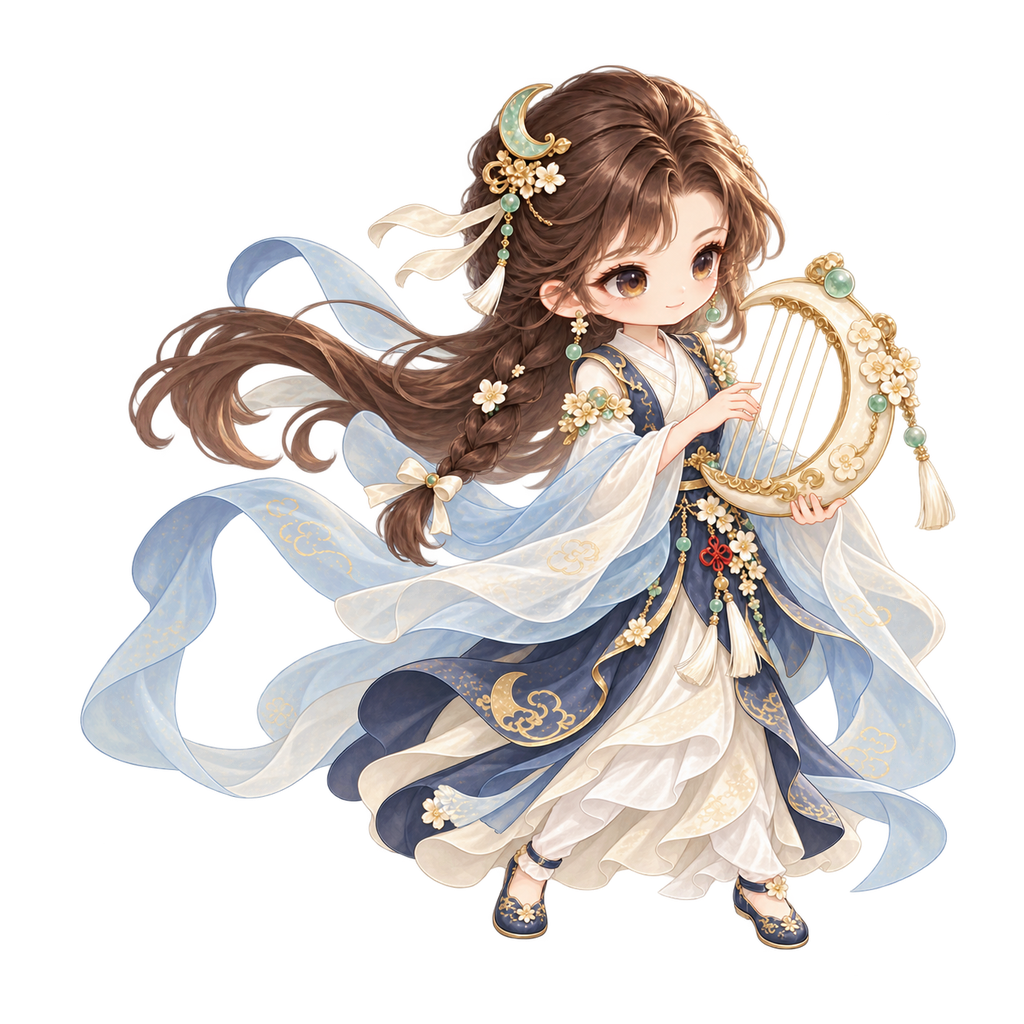
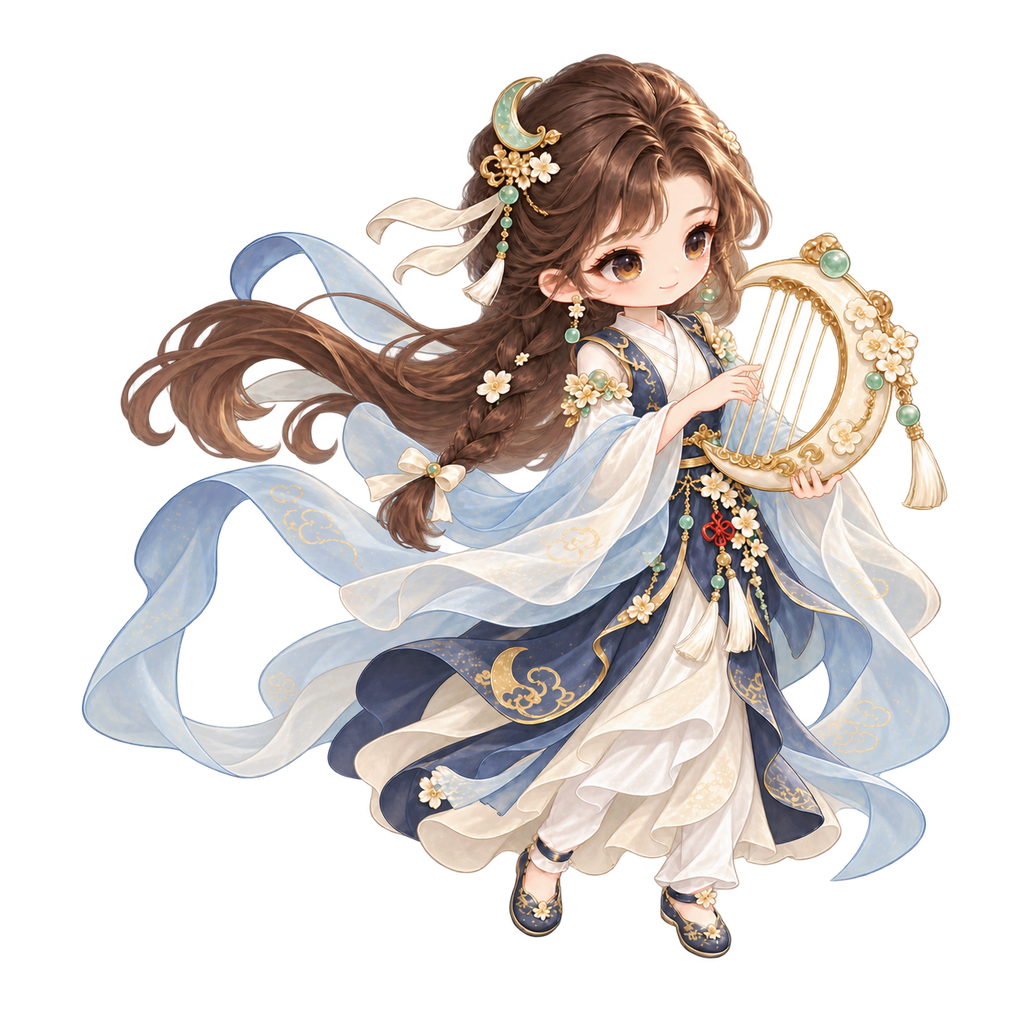
Save game artwork and production records 20261008 batch 0040

diff --git a/designs/creature-combat-20261005/pets/12-yuexianshi/review_guard_early.py b/designs/creature-combat-20261005/pets/12-yuexianshi/review_guard_early.py
@@ -1,0 +1,52 @@
+"""Read-only pixel checks and text review inventory for W attack01-06 repair."""
+from pathlib import Path
+from collections import deque
+from datetime import datetime, timezone
+import json, hashlib
+import numpy as np
+from PIL import Image
+ROOT=Path(__file__).resolve().parent
+def sha(p):return hashlib.sha256(p.read_bytes()).hexdigest()
+def load(p):return json.loads(p.read_text(encoding='utf-8-sig'))
+def save(p,d):p.write_text(json.dumps(d,ensure_ascii=False,indent=2),encoding='utf-8')
+def metrics(path):
+    im=Image.open(path); a=np.array(im); mask=(a[:,:,3]>150)&(a[:,:,:3].max(axis=2)<185)
+    mask[:1010]=False;mask[:,:510]=False;mask[:,780:]=False
+    components=[]
+    for y,x in zip(*np.where(mask)):
+        if not mask[y,x]:continue
+        q=deque([(int(y),int(x))]);mask[y,x]=False;pts=[]
+        while q:
+            yy,xx=q.popleft();pts.append((xx,yy))
+            for dy,dx in ((1,0),(-1,0),(0,1),(0,-1)):
+                ny,nx=yy+dy,xx+dx
+                if 0<=ny<a.shape[0] and 0<=nx<a.shape[1] and mask[ny,nx]:mask[ny,nx]=False;q.append((ny,nx))
+        if len(pts)>200:
+            z=np.array(pts); components.append({'area':len(pts),'center':[round(float(v),2) for v in z.mean(axis=0)],'bounds':[int(v) for v in [z[:,0].min(),z[:,1].min(),z[:,0].max()+1,z[:,1].max()+1]]})
+    components=sorted(sorted(components,key=lambda v:-v['area'])[:2],key=lambda v:v['center'][0])
+    edges={s:{'maxAlpha':int(v.max()),'pixelsAbove64':int((v>64).sum())} for s,v in zip(('top','bottom','left','right'),(a[0,:,3],a[-1,:,3],a[:,0,3],a[:,-1,3]))}
+    return {'size':list(im.size),'mode':im.mode,'alphaRange':list(im.getchannel('A').getextrema()),'strongEdgePixels':edges,'shoeDarkComponents':components}
+baseline=ROOT/'repair-inputs/baseline-W.png'
+review={'checkedAt':datetime.now(timezone.utc).isoformat(),'scope':'attack/W01-06','method':'Author actually viewed core E/W/style references, each edit target, every native result and every final exported PNG. Static sequential pose comparison plus read-only native alpha-edge and dark-shoe component measurements. No continuous playback or client approval claimed.','status':'static-reviewed-pending-root-sequence-verification','anatomy':'Each reviewed output remains true rear three-quarter W with visible back hair, two hands (anatomical left supports crescent harp; right plucks), two rear-facing staggered shoes, no wings/tail.','correction':'AI local lower-body edits remove original wide-foot stance while retaining frame-specific plucking poses. Frame03 required an additional real AI ribbon-edge correction. No code-created pose, mirror, interpolation or per-frame re-alignment used.','measurementLimitation':'Shoe centers are auxiliary dark connected-component centroids with y>=1010, 510<=x<780, maxRGB<185, alpha>150 in native1254 coordinates; not literal anatomical joints or foot-ground contacts. Small drawing deformation remains and requires sequence review.','baseline':{'path':str(baseline),'sha256':sha(baseline),'metrics':metrics(baseline)},'frames':[],'nativeSources':[]}
+for i in range(1,7):
+    rec=ROOT/'records/attack-W'/f'{i:02}.generation.json';r=load(rec)
+    if 'guardfix-20261008' not in r['prompt']:continue
+    native=Path(r['derivedFrom']['path']);out=ROOT/r['file']
+    review['frames'].append({'frame':i,'file':r['file'],'sha256':sha(out),'record':rec.relative_to(ROOT).as_posix(),'native':str(native),'nativeSha256':sha(native),'metrics':metrics(native),'exportMode':Image.open(out).mode,'exportSize':list(Image.open(out).size),'exportSHAAgrees':sha(out)==r['sha256'],'observed':'Native and final export viewed; narrowed rear shoes, left harp support and right plucking arm intact. Frame-to-frame plucking hand differences retained; exact playback pending.'})
+    for p in sorted((ROOT/'records/attack-W').glob(f'{i:02}.guardfix-20261008*.generation.json')):
+        c=load(p);selected=Path(c['file'])==native
+        c['disposition']='selected current final export' if selected else ('superseded by later AI ribbon-edge correction' if i==3 else 'superseded by later AI shoe-position precision correction')
+        if i==6 and not selected:c['disposition']='rejected: upper torso drift and diminished extended follow-through; retained initial corrected frame06'
+        c['currentRecord']=rec.relative_to(ROOT).as_posix();save(p,c)
+        review['nativeSources'].append({'path':c['file'],'sha256':c['sha256'],'record':p.relative_to(ROOT).as_posix(),'selected':selected,'eligibleForRootCleanupAfterFinalVerification':True})
+review['completed']=len(review['frames']);review['expected']=6
+review['distinctFinalSHA']=len({f['sha256'] for f in review['frames']})==len(review['frames'])
+review['noCodeCreatedPose']=True
+review['residualStaticVariation']='Frame04 lower shoe retains about18 native pixels (about14 export pixels) horizontal dark-body-center difference from baseline, with upper shoe near fixed and no swapped foot. Frame06 retains about14 native pixels lower-shoe x/y drawing variation. This is disclosed for root sequence review; not called zero-slip or dynamic approval.'
+review['exportContract']={'canvas':[1024,1024],'fixedWholeCanvasResize':[960,960],'fixedOffset':[32,16],'perFrameAlignment':False}
+observations={1:'Starting curled right fingers near central strings; narrowed guard shoe positions match baseline closely.',2:'Right wrist/fingers visibly lifted for preparation; supporting palm remains under the harp.',3:'Right fingers bend inward near strings; original ribbon-edge clipping repaired through a second AI edit.',4:'Right wrist reaches toward strings with bent fingers at release, retains support hand and full rear silhouette.',5:'Right wrist lowers into the stroke; rear feet show small natural drawing variation without wide lateral stance.',6:'Extended right fingers and wrist show follow-through; left hand continues to support the same harp.'}
+for f in review['frames']:f['poseObservation']=observations[f['frame']]
+review['nativeEdgeCheckPassed']=all(not e['pixelsAbove64'] for f in review['frames'] for e in f['metrics']['strongEdgePixels'].values())
+save(ROOT/'records/attack-W/guardfix-early-review-20261008.json',review)
+save(ROOT/'records/attack-W/guardfix-early-native-inventory-20261008.json',{'scope':'attack/W01-06 own generated sources only','deleteOnlyAfterFinalVerification':True,'items':review['nativeSources']})
+print(json.dumps({'completed':review['completed'],'expected':6,'nativeEdgeCheckPassed':review['nativeEdgeCheckPassed'],'feet':[{'frame':f['frame'],'components':f['metrics']['shoeDarkComponents']} for f in review['frames']],'baseline':review['baseline']['metrics']['shoeDarkComponents']},ensure_ascii=False))

diff --git a/designs/creature-combat-20261005/pets/12-yuexianshi/review_guard_late.py b/designs/creature-combat-20261005/pets/12-yuexianshi/review_guard_late.py
@@ -1,0 +1,34 @@
+from pathlib import Path
+import json,hashlib
+from datetime import datetime,timezone
+from PIL import Image,ImageDraw
+import numpy as np
+R=Path(__file__).resolve().parent
+rows=[];sources=[]
+for i in range(7,13):
+ rp=R/f"records/attack-W/{i:02}.generation.json"
+ r=json.loads(rp.read_text(encoding="utf-8"));p=Path(r["derivedFrom"]["path"])
+ if "guardfix-20261008" not in r["prompt"]:continue
+ with Image.open(p) as im:
+  a=np.array(im.getchannel("A"))
+  mx=[int(a[0].max()),int(a[-1].max()),int(a[:,0].max()),int(a[:,-1].max())]
+  rows.append(dict(file=r["file"],sha256=r["sha256"],source=str(p),nativeSha256=r["native"]["sha256"],prompt=r["prompt"],nativeSize=list(im.size),nativeEdgeOrder=["top","bottom","left","right"],nativeEdgeMax=mx,edgeAbove64=max(mx)>64))
+for p in sorted((R/"records/attack-W").glob("*.guardfix-20261008*.generation.json")):
+ if not 7<=int(p.name[:2])<=12:continue
+ r=json.loads(p.read_text(encoding="utf-8"))
+ if p.name=="07.guardfix-20261008.generation.json":
+  r["disposition"]="rejected-candidate";p.write_text(json.dumps(r,ensure_ascii=False,indent=2),encoding="utf-8")
+ if p.name=="07.guardfix-20261008-retry1.generation.json":
+  r["disposition"]="selected-final";p.write_text(json.dumps(r,ensure_ascii=False,indent=2),encoding="utf-8")
+ sources.append(dict(path=r["file"],sha256=r["sha256"],record=p.relative_to(R).as_posix(),disposition=r.get("disposition")))
+review=dict(recordedAt=datetime.now(timezone.utc).isoformat(),scope="attack W07-12",status="static-review-in-progress" if len(rows)<6 else "static-review-complete",route="builtin-imagegen",frames=rows,visualChecks=["Generated outputs and fixed-transform exported frames viewed individually","Two hands and shoes; anatomical left supports harp, right plucks/recovers","True back three-quarter W, chestnut braid and ivory/indigo silk preserved","Compact staggered guard feet restored, no wide-spread stance"],notes=["W07 raised pluck and W08 lowered wrist distinct","W09 returning wrist redraw differs about25nativepx from original input but preserves recovery; left ribbon loop retained","W12 dark-shoe threshold merges both shoes into one component; root single-component centroid is not a valid single-shoe metric for this frame","W12 only six right-edge pixels y886..891 have alpha>64, max88; no solid subject cut seen, retain evidence for root review","No playback claim; final temporal review delegated to root"],cleanupCandidates=sources,cleanupPerformed=False)
+def measured_regions(p):
+ a=np.asarray(Image.open(p).convert("RGBA"));out=[]
+ for x0,y0,x1,y1 in [(560,1135,660,1245),(650,1030,745,1140)]:
+  q=a[y0:y1,x0:x1];yy,xx=np.nonzero((q[:,:,3]>150)&(q[:,:,:3].max(2)<185))
+  out.append(dict(box=[x0,y0,x1,y1],pixels=len(xx),centroid=[round(float(xx.mean())+x0,2),round(float(yy.mean())+y0,2)]))
+ return out
+if len(rows)==6:
+ review["regionMeasurement"]={"limits":"Manually bounded dark regions, excludes portions of shoes; auxiliary comparison only, not joint locations or playback proof","baseline":measured_regions(R/"repair-inputs/baseline-W.png"),"frame12":measured_regions(Path(rows[-1]["source"]))}
+(R/"records/attack-W/guardfix-20261008-late-review.json").write_text(json.dumps(review,ensure_ascii=False,indent=2),encoding="utf-8")
+print(json.dumps(dict(checked=len(rows),attention=[x["file"] for x in rows if x["edgeAbove64"]],sources=len(sources)),ensure_ascii=False))
